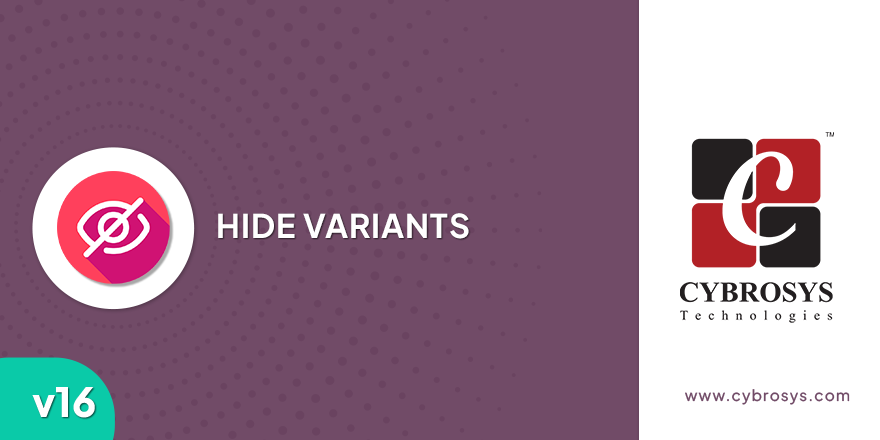
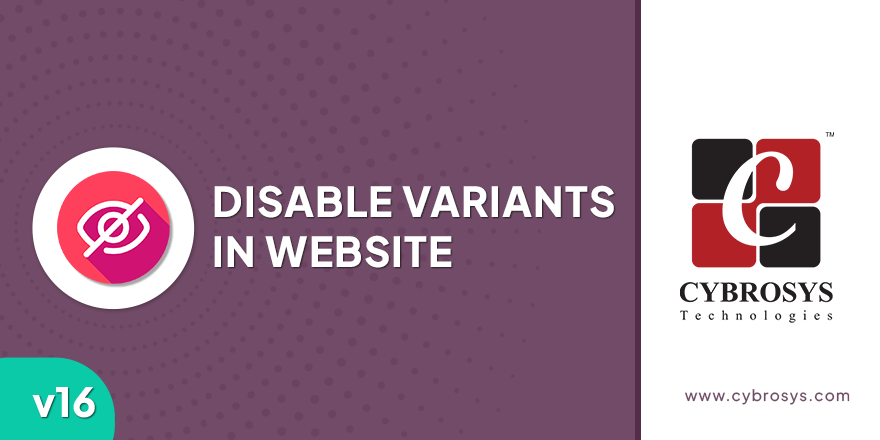
Aug 17 : [UPDT] Bug Fixed  'website_hide_variants'

Changed region(s): [[0.2455, 0.0, 0.7364, 1.0]]

diff --git a/website_hide_variants/static/description/index.html b/website_hide_variants/static/description/index.html
@@ -28,9 +28,9 @@
             <div class="col-sm-12 col-md-12 col-lg-12">
                 <!-- APP HERO -->
                 <h1 style="color: #FFFFFF; font-weight: bolder; font-size: 50px; text-align: center; margin-top: 50px;">
-                    Hide Variants</h1>
+                    Disable Variants in Website</h1>
                 <p style="color:#FFFFFF; padding: 8px 15px; text-align: center; font-size: 24px;">
-                    This Module Helps To Hide The Product Variants From The
+                    This Module Helps To disable The Product Variants From The
                     Website</p>
                 <!-- END OF APP HERO -->
                 <img src="assets/screenshots/hero.gif" class="img-responsive"
@@ -116,7 +116,7 @@
 <div class="row"
      style="font-family: 'Montserrat', sans-serif; font-weight: 400; font-size: 14px; line-height: 200%;">
     <div class="col-sm-12 py-4">
-        This module enables to hide the product variants from the website.
+        This module enables to disable the product variants from the website.
     </div>
 </div>
 <!-- END OF OVERVIEW SECTION -->
@@ -142,7 +142,7 @@
             <img src="/assets/misc/check-box.png" class="mr-2"/>
             <div>
                 <span
-                        style="display: block; font-family: 'Montserrat', sans-serif; font-size: 18px; font-weight: bold;">Boolean Field To Hide The Product</span>
+                        style="display: block; font-family: 'Montserrat', sans-serif; font-size: 18px; font-weight: bold;">Boolean Field To disable The Product</span>
                 <span style="display: block; font-family: 'Montserrat', sans-serif; font-size: 12px;"> </span>
             </div>
         </div>
@@ -151,7 +151,7 @@
             <img src="/assets/misc/check-box.png" class="mr-2"/>
             <div>
                 <span
-                        style="display: block; font-family: 'Montserrat', sans-serif; font-size: 18px; font-weight: bold;">Hide Product variants from website depending on the stock availability</span>
+                        style="display: block; font-family: 'Montserrat', sans-serif; font-size: 18px; font-weight: bold;">Disable Product variants from website depending on the stock availability</span>
                 <span style="display: block; font-family: 'Montserrat', sans-serif; font-size: 14px;"> </span>
             </div>
         </div>
@@ -178,9 +178,9 @@
 
         <div style="display: block; margin: 30px auto;">
             <h3 style="font-family: 'Montserrat', sans-serif; font-size: 18px; font-weight: bold;">
-                Field to select the products to hide in the website</h3>
+                Field to select the products to disable in the website</h3>
             <p style="font-weight: 400; font-family: 'Montserrat', sans-serif; font-size: 14px;">
-                We can click on the check box to hide the product variants from
+                We can click on the check box to diable the product variants from
                 the website</p>
             <img src="./assets/screenshots/1.png" class="img-thumbnail">
         </div>

diff --git a/website_hide_variants/__manifest__.py b/website_hide_variants/__manifest__.py
@@ -20,9 +20,9 @@
 #
 #############################################################################
 {
-    'name': "Hide Variants",
+    'name': "Disable Variants in Website",
     'version': '16.0.1.0.0',
-    'description': "The module helps to hide products amd product variants from website",
+    'description': "The module helps to disable products amd product variants from website",
     'summary': "Hide Variants",
     'author': "Cybrosys Techno Solutions",
     'company': 'Cybrosys Techno Solutions',

diff --git a/website_hide_variants/README.rst b/website_hide_variants/README.rst
@@ -1,6 +1,6 @@
-Hide Variants for Odoo 16
+Disable Variants in Website for Odoo 16
 ================================================
-* Hide Variants for Odoo 16
+* Disable Variants in Website for Odoo 16
 
 Installation
 ============

diff --git a/website_hide_variants/doc/RELEASE_NOTES.md b/website_hide_variants/doc/RELEASE_NOTES.md
@@ -1,6 +1,6 @@
 ## Module <website_hide_variants>
 
-#### 07.02.2023
+#### 11.08.2023
 #### Version 16.0.1.0.0
 #### ADD
 - Initial commit for Odoo 16 Hide Variants
